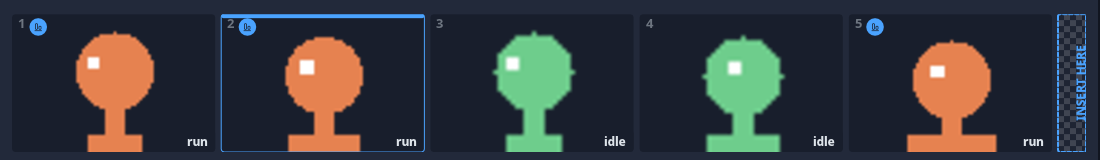
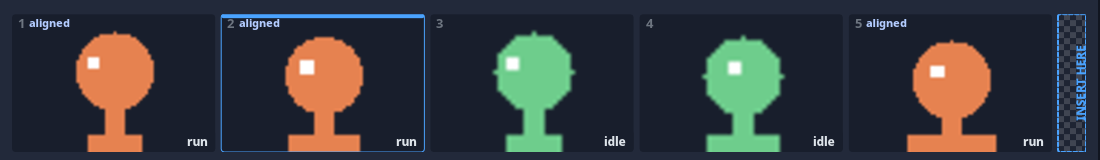
fix(GEF 28 C): a marca do quadro acertado vira a palavra «aligned», pequena (Xs) e em Info, ao lado do número (dono 09/11)

Changed region(s): [[0.7727, 0.125, 0.8345, 0.2188], [0.0, 0.125, 0.0618, 0.2188], [0.2164, 0.125, 0.2782, 0.2188]]

diff --git a/crates/ph2d-anim-editor/src/paint_align.rs b/crates/ph2d-anim-editor/src/paint_align.rs
@@ -283,27 +283,28 @@ fn paint_frame(doc: &AnimDoc, scene: &mut VectorScene, text: &mut TextSystem, th
     );
 }
 
-/// ⭐ A marca na tira de um quadro acertado (onda C): um selo de acento com o ícone do Align, logo à direita do número
-/// do quadro, a partir de `x` (smoke do dono 09/11: no canto de cima à direita pisava o × e o ícone de mover era
-/// estranho).
-pub(super) fn paint_nudge_mark(scene: &mut VectorScene, theme: Theme, thumb: Rect, x: f32) {
-    let side = ROW_H_PX * 0.8; // LITERAL-PX-OK: fração da linha
-    let r = Rect::new(x, thumb.y + Spacing::Xs.px(), side, side);
-    let (cx, cy) = (r.x + side / 2.0, r.y + side / 2.0);
-    fill_circle(scene, cx, cy, side / 2.0, tom(ColorToken::Accent, theme));
-    let inset = side * 0.2; // LITERAL-PX-OK: a margem do ícone no selo
-    let icon = Rect::new(
-        r.x + inset,
-        r.y + inset,
-        side - 2.0 * inset,
-        side - 2.0 * inset,
-    ); // LITERAL-PX-OK: as duas margens
-    paint_icon(
+/// ⭐ A marca na tira de um quadro acertado (onda C): a palavra «aligned», pequena e na tinta do Align, logo à direita
+/// do número do quadro, a partir de `x` (smoke do dono 09/11: o selo com ícone pisava o × e era estranho).
+pub(super) fn paint_nudge_mark(
+    scene: &mut VectorScene,
+    text: &mut TextSystem,
+    theme: Theme,
+    thumb: Rect,
+    x: f32,
+) {
+    let font = TypeToken::Xs.px();
+    let y = thumb.y + (TypeToken::Base.px() - font) / 2.0; // a linha do número
+    let w = (thumb.x + thumb.w - x).max(0.0);
+    let cor = tom(ColorToken::Info, theme);
+    paint_text(
+        text,
         scene,
-        IconId::AlignBottom,
-        icon,
-        tom(ColorToken::Bg0, theme),
-        StrokeToken::Thick.px(),
+        tr("anim_editor.frame_aligned"),
+        x,
+        y,
+        font,
+        w,
+        cor,
     );
 }
 

diff --git a/crates/ph2d-i18n/src/anim_editor.rs b/crates/ph2d-i18n/src/anim_editor.rs
@@ -67,6 +67,7 @@ pub(crate) fn tr(key: &str) -> Option<&'static str> {
         "anim_editor.align_picking" => "Pick a frame below",
         "anim_editor.align_by_feet" => "By feet",
         "anim_editor.align_by_centre" => "By centre",
+        "anim_editor.frame_aligned" => "aligned",
         "anim_editor.commit_failed" => "The animation edit did not apply: {e}",
         // O editor de Region (plano GEF 16 D2): a área que o objecto mostra.
         "region_editor.tab" => "Region \u{2014} {name}",

diff --git a/crates/ph2d-anim-editor/src/paint.rs b/crates/ph2d-anim-editor/src/paint.rs
@@ -549,7 +549,7 @@ fn paint_strip(
                 .layout(&(i + 1).to_string(), font, f32::INFINITY)
                 .width();
             let x = thumb.x + Spacing::Sm.px() + numero + Spacing::Xs.px();
-            super::paint_align::paint_nudge_mark(scene, theme, *thumb, x);
+            super::paint_align::paint_nudge_mark(scene, text, theme, *thumb, x);
         }
         if doc.marker_at(i).is_some() {
             let cor = if doc.marker_past_end(i).is_some() {
